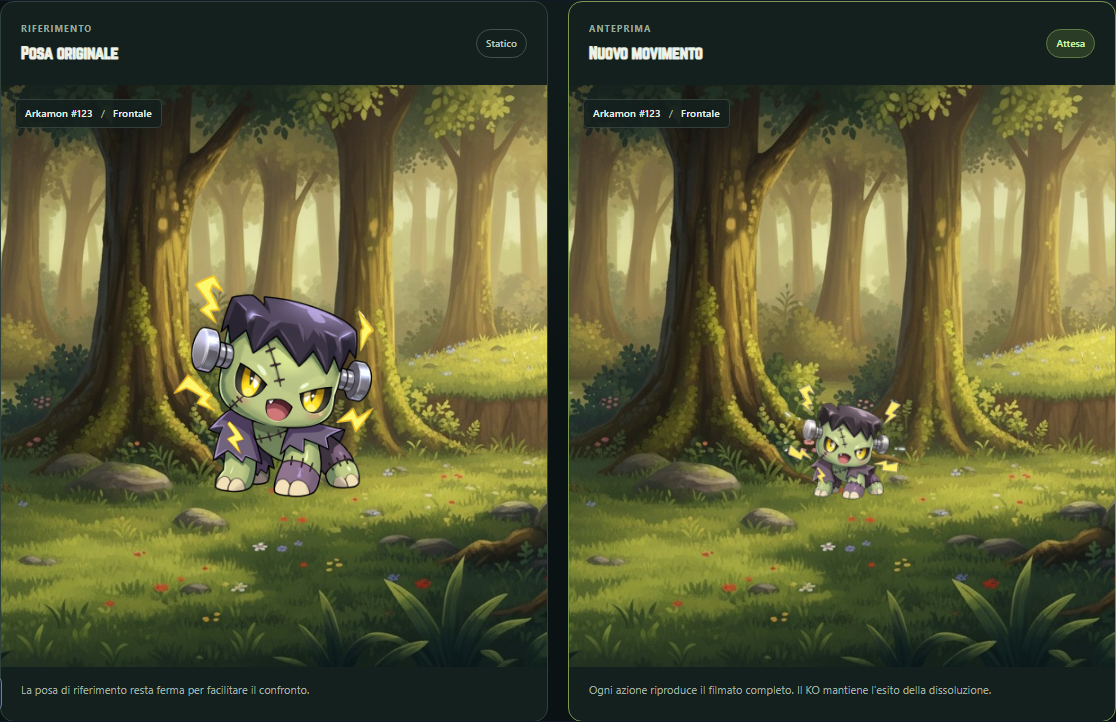
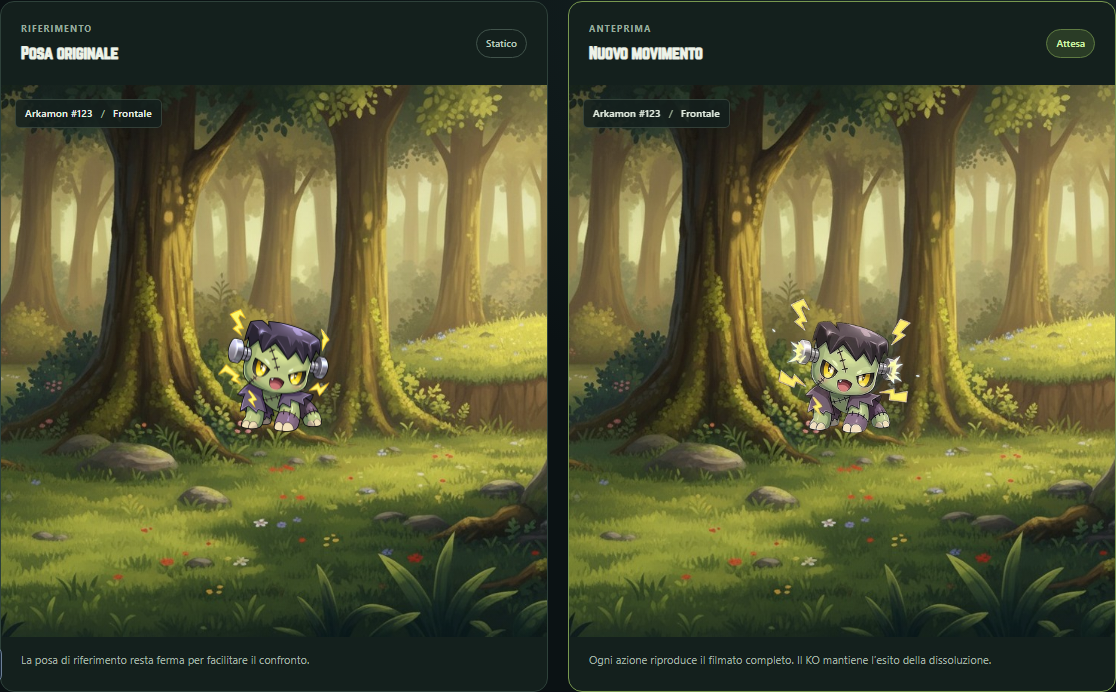
Pin fitted animation media and record final browser verification

diff --git a/docs/front-animation-import-2026-11-04.md b/docs/front-animation-import-2026-11-04.md
@@ -18,7 +18,7 @@ Le serie 123, 124 e 127 usano un fondale blu; le altre usano il verde. La scala 
 
 Per la sola attesa degli ID 130, 131 e 134 si applica un profilo esplicito che conserva i gradienti verdi all'interno della sagoma. Il profilo esclude bordi, zone trasparenti e dissolvenze a bassa copertura. Le aperture fra le piume e le ali della forma 131 sono spazi negativi presenti anche nello sprite ufficiale e restano trasparenti. Estendere questo recupero alle altre azioni alterava il colore di sfere, scie e rune: attacco, colpo, vittoria e KO mantengono quindi il keying conservativo. Su quelle azioni può rimanere una desaturazione dei verdi sovrapposti al fondale, limite documentato senza inventare colori o disegnare nuovi pixel. Nel KO della forma 121 il video originale mescola il finale al verde: la lieve dominante residua della dissolvenza resta visibile, conservando il fotogramma reale.
 
-Le prime tre serie usano la compressione WebP lossless di livello 1; le altre usano il livello 0, più rapido e verificato sugli stessi pixel RGBA. Il livello modifica dimensione e tempo di codifica, senza perdere fotogrammi o qualità. Le pagine runtime vengono ricodificate e confrontate separatamente con l'atlante.
+La serie 117 usa la compressione WebP lossless di livello 1; le altre sedici serie definitive usano il livello 0, più rapido e verificato sugli stessi pixel RGBA. Il livello modifica dimensione e tempo di codifica, senza perdere fotogrammi o qualità. Le pagine runtime vengono ricodificate e confrontate separatamente con l'atlante.
 
 I cicli di attesa 124 e 125 conservano una discontinuità già presente nelle sorgenti: nella forma 124 cambia bruscamente la fase delle piccole scariche; nella forma 125 la testa torna alla propria inclinazione iniziale. Il confronto degli originali 91–93/0–2 conferma il limite. Anche la forma 134 supera di poco la soglia diagnostica del loop: il confronto mostra piccole differenze di fase del corpo e delle gocce, con posizione e posa generale stabili. Tutte e tre entrano nella coda di revisione, distinguendo le due discontinuità più visibili dalla variazione più sottile della forma 134. Non vengono eliminati fotogrammi, aggiunte interpolazioni o alterate le durate per mascherarle.
 
@@ -28,6 +28,26 @@ L'indice runtime condivide capacità e colonne delle pagine uniformi, conservand
 
 L'audit indipendente finale, ripetuto dopo la correzione della scala, è superato: **580 clip storiche profondamente identiche e 7.620 file invariati per byte e SHA-256**. Le 85 nuove clip conservano tutti i 7.990 frame; le **670 pagine aggiunte** superano il confronto di tutti i pixel visibili e degli alpha durante la generazione e i controlli indipendenti delle impronte, dei primi/ultimi frame, dei poster e delle celle inutilizzate. Il catalogo complessivo comprende **133 forme, 665 clip, 63.595 fotogrammi e 6.935 pagine**. L'indice runtime compresso misura **30.077 byte**, entro il limite di 32 KiB. Le 270 pagine intermedie sostituite dalla correzione della scala sono rimosse soltanto dopo il confronto delle impronte e la verifica che nessuna appartenga alla baseline storica.
 
-La revisione visiva indipendente copre tutte le 85 clip, nei frame 0/47/93 su sfondo chiaro e scuro: 255 frame campionati, 510 composizioni. Non è una visione manuale di ogni fotogramma. I 43 test Python del convertitore e i 26 contratti Node sono superati. La suite unitaria completa e le prove browser del laboratorio e del compilato sono in corso; gli esiti saranno aggiunti dopo la loro conclusione. La baseline e i log sono in `output/animation-import-2026-11-04/`; la provenienza è registrata in `animation-source/audits/front-2026-11-04.json`.
+La revisione visiva indipendente copre tutte le 85 clip definitive, nei frame 0/47/93 su sfondo chiaro e scuro: 255 frame campionati, 510 composizioni. Per le nove serie ricalibrate sono stati ripetuti 135 campioni e 45 confronti delle pose iniziali con il ritratto ufficiale nel viewport. Non è una visione manuale di ogni fotogramma. Le impronte degli 85 atlanti pubblici corrispondono a quelli esaminati.
 
-Questo documento non certifica un push, un deploy, la disponibilità online dei nuovi media o un collaudo manuale completo della partita.
+| Controllo definitivo | Esito |
+|---|---|
+| Conservazione delle fonti e della baseline | Superato: 580 clip e 7.620 file precedenti invariati, tutte le 85 clip nuove e i 7.990 frame verificati, zero errori. |
+| Suite unitaria completa | **5.878/5.878 test, 183 file**, codice 0 dopo la correzione della scala. Include 45 contratti del corpo per i nove set. |
+| Convertitore Python | **43/43**, comprese conservazione dei verdi, esclusione delle altre azioni e compatibilità delle impostazioni precedenti. |
+| Contratti Node e controlli di sicurezza | **26/26** contratti e **9/9** controlli di sicurezza. |
+| Catalogo degli sprite e TypeScript | Superati; 195 ID grafici, 85 senza dati di gioco. |
+| Browser sorgente desktop/mobile | **68/68**, in 6,1 minuti, due processi, zero retry, esclusioni o flaky. Tutte le 17 forme, cinque azioni, marker, finale KO, pagine, cache e laboratorio reale. |
+| Build di produzione | Codice 0; **741,2 MiB**, sotto il limite di 900 MiB. |
+| Budget di avvio | Superato: ingresso 469.597 byte, JavaScript iniziale 729.546 byte, CSS 76.721 byte. |
+| Scenari generali sul compilato | **3/3**, zero retry o esclusioni: sei schermate di gestione, creazione/ripristino partita e profilo broadcast separato. |
+| Animazioni e ritratti sullo stesso compilato | **32/32**, in 5,6 minuti, due processi paralleli, zero retry, esclusioni o flaky. |
+| Legame delle 32 prove con l'artefatto | `readPassingReport` superato contro l'impronta ricalcolata dell'intero compilato invariato. |
+
[1 lines of base64/hex data omitted]
+
+Confronti reali delle versioni definitive: [forma 123](ui-previews/native-2026-11-04/123-native-comparison.png), [forma 131](ui-previews/native-2026-11-04/131-native-comparison.png), [forma 139](ui-previews/native-2026-11-04/139-native-comparison.png). I primi esiti browser precedenti alla correzione della scala rimangono conservati separatamente e non vengono usati come prova dei media definitivi.
+
+La baseline e i log dettagliati sono in `output/animation-import-2026-11-04/`; la provenienza e gli esiti definitivi sono registrati in [front-2026-11-04.json](../animation-source/audits/front-2026-11-04.json). Le prove del compilato sostituiscono soltanto il trasporto dei file della revisione esatta e verificano byte e SHA-256. Non certificano la disponibilità online del CDN. Nessun push, deploy o nuovo installer desktop è stato eseguito per questa importazione.
+
+La verifica comprende l'intera suite unitaria e gli scenari browser indicati; non è una nuova esecuzione di tutta la raccolta E2E del progetto né un collaudo manuale completo della partita. Non viene creata una ricevuta di pubblicazione dell'intero progetto usando soltanto i 68 scenari di questa importazione.
